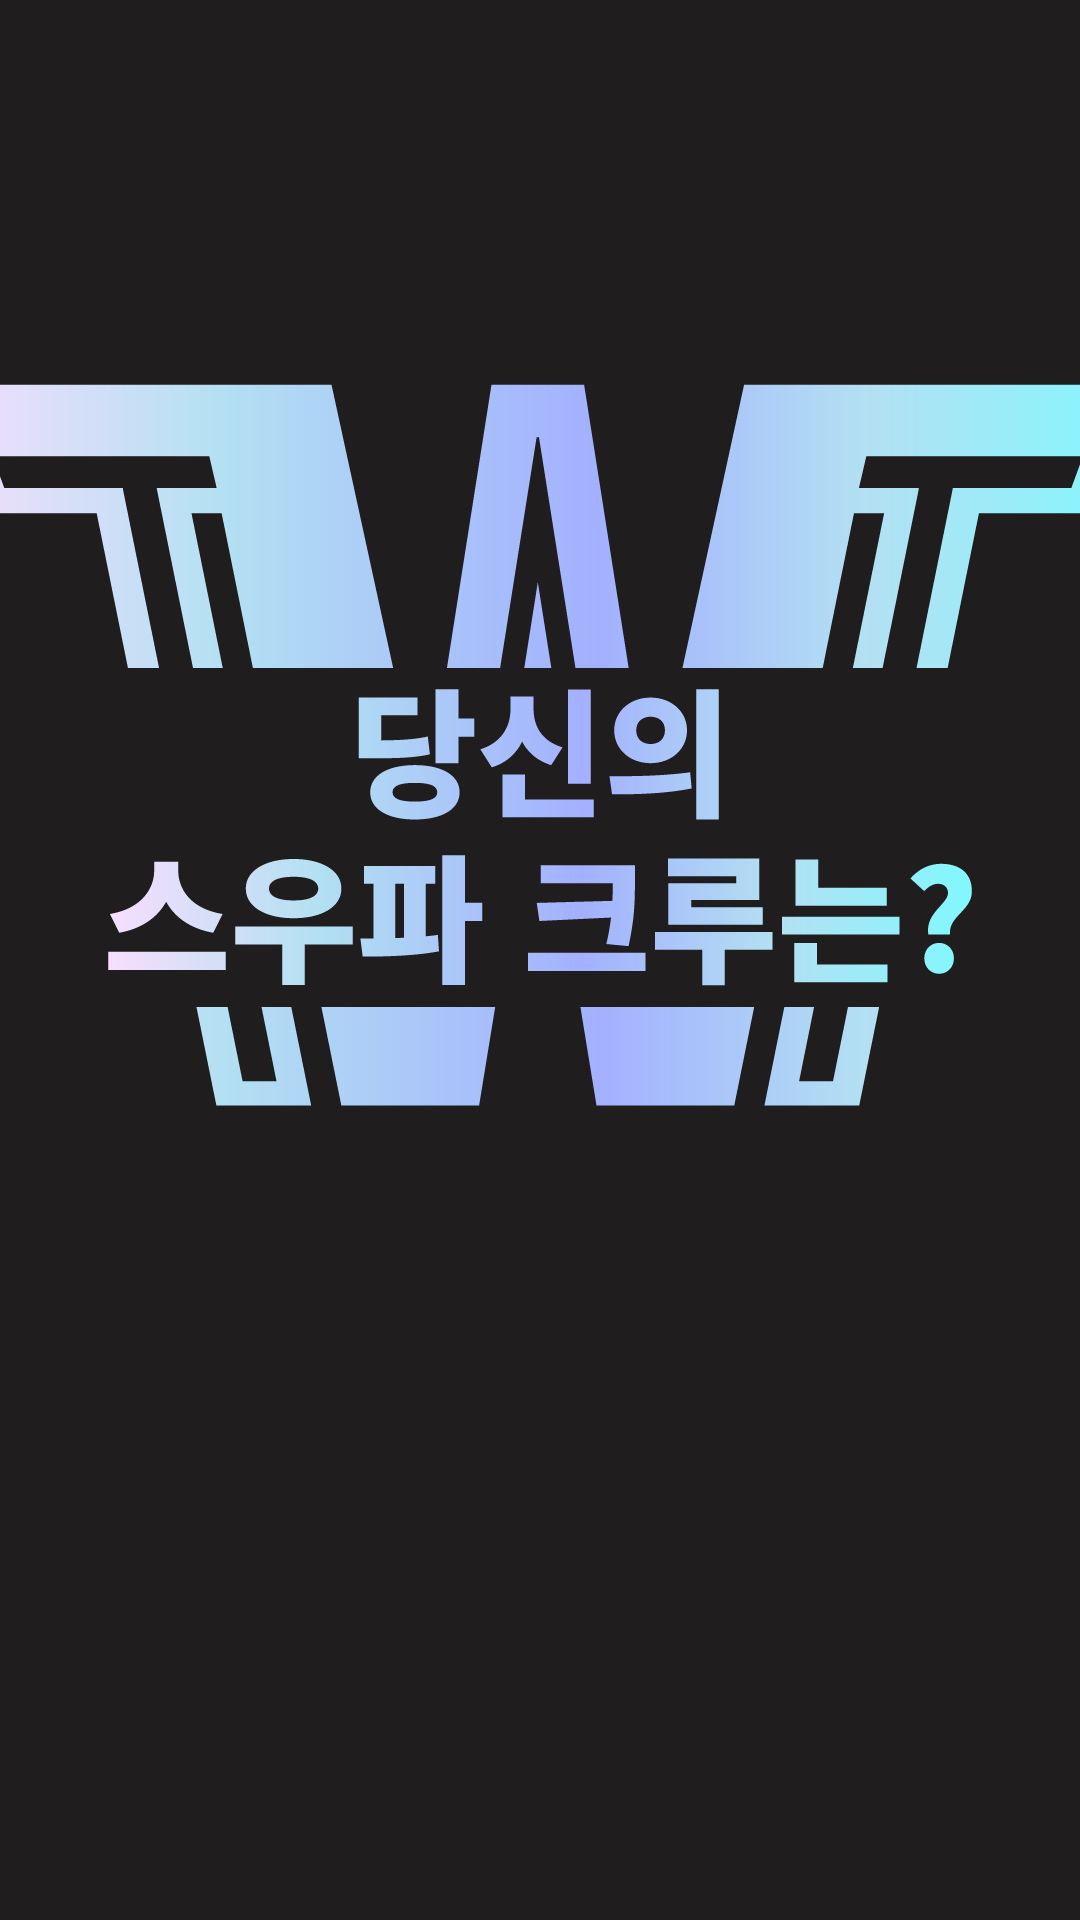
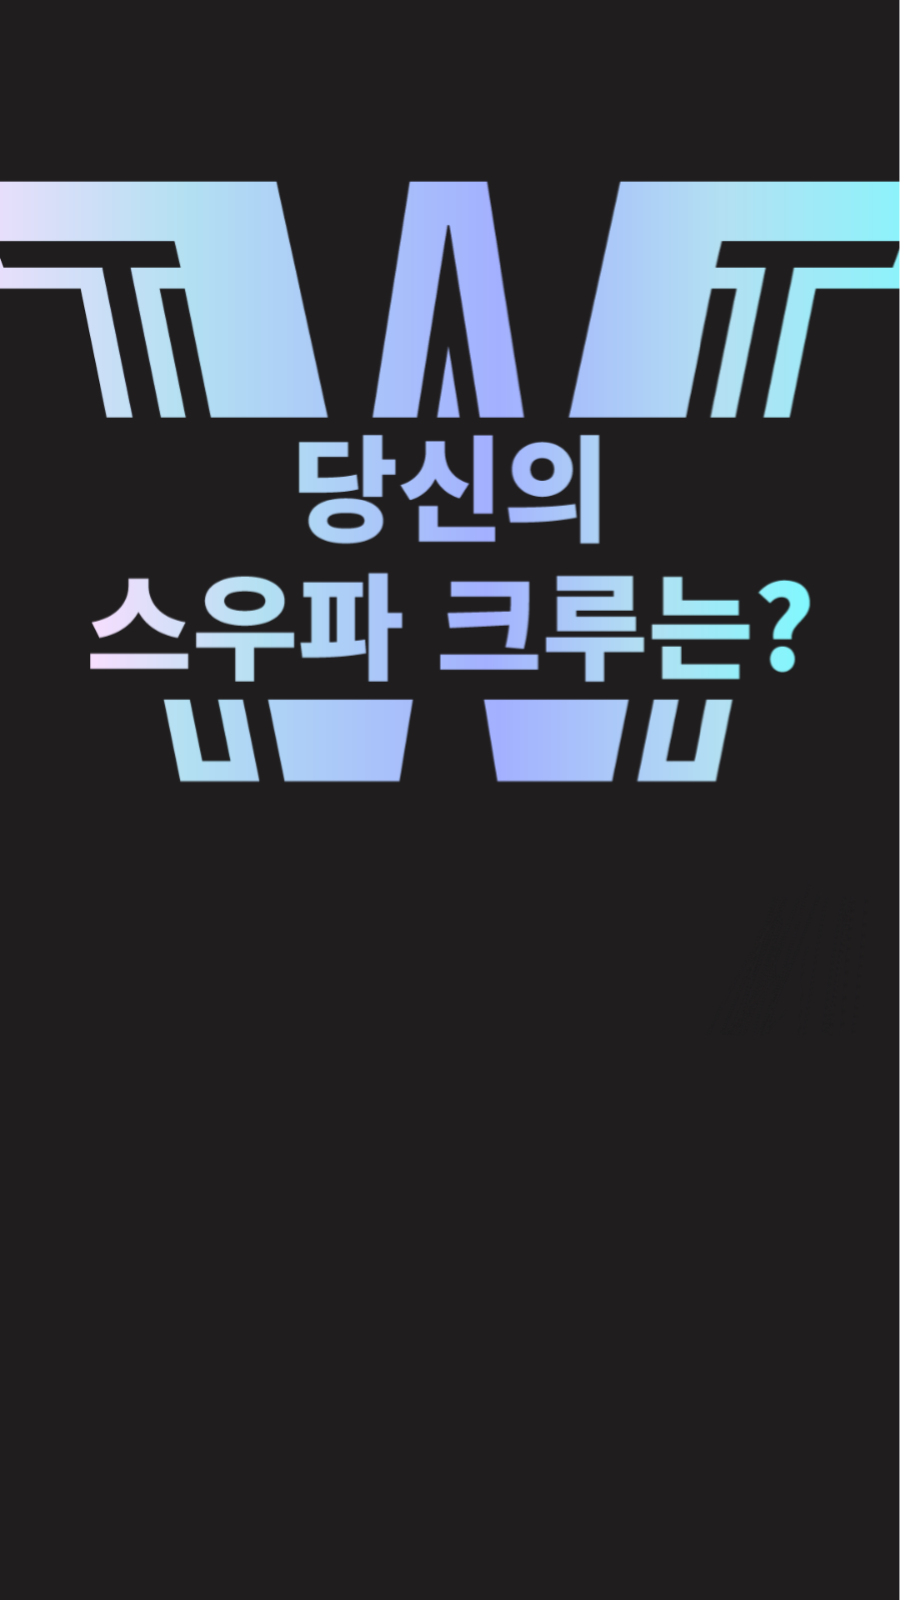
ux: home

Changed region(s): [[0.0, 0.0, 1.0, 1.0]]

diff --git a/src/Home.js b/src/Home.js
@@ -9,8 +9,20 @@ function Home({ setStep, setPoint }) {
   });
   return (
     <Homemain>
-      home
-      <Link to="/problem">나와 어울리는 댄스 크루 찾으러 가기</Link>
+      <Link to="/problem">
+        <Btn>
+          <BtnSpan>나와 어울리는</BtnSpan>
+          <BtnSpan>댄스 크루 찾으러 가기</BtnSpan>
+        </Btn>
+        <CountSpan>
+          <BoldNumber>2021</BoldNumber>명의 댄서들이 참여했습니다.
+        </CountSpan>
+      </Link>
+      <Footer>
+        <span>©Chan&Blanky</span>
+        <span>Develop by | dpdpdpfl@google.com</span>
+        <span>Design by |Dskdksk@google.com</span>
+      </Footer>
     </Homemain>
   );
 }
@@ -18,11 +30,66 @@ function Home({ setStep, setPoint }) {
 const Homemain = styled.div`
   background-image: url(main_background.png);
   width: 100%;
-  height: 177.77vw;
+  height: 177.9vw;
   background-size: contain;
-  @media (min-width: 480px) {
-    height: 853px;
+  @media (min-width: 400px) {
+    height: 711px;
   }
+  display: flex;
+  justify-content: center;
+`;
+
+const Btn = styled.div`
+  width: 240px;
+  height: 70px;
+  margin-top: 390px;
+  border: 1px solid #a3b0ff;
+  box-sizing: border-box;
+  border-radius: 35px;
+  display: flex;
+  flex-direction: column;
+  align-items: center;
+  justify-content: center;
+  @media (min-width: 480px) {
+  }
+`;
+
+const BtnSpan = styled.span`
+  font-weight: bold;
+  font-size: 20px;
+  line-height: 29px;
+  color: #a3b0ff;
+`;
+
+const CountSpan = styled.span`
+  margin-top: 20px;
+  font-style: normal;
+  font-size: 16px;
+  display: flex;
+  align-items: center;
+  text-align: center;
+
+  color: #a3b0ff;
+`;
+
+const BoldNumber = styled.span`
+  font-weight: bold;
+  margin-right: 4px;
+`;
+
+const Footer = styled.div`
+  position: absolute;
+  top: 95%;
+  left: 50%;
+  transform: translate(-50%, -50%);
+  font-weight: 300;
+  font-size: 8px;
+  line-height: 15px;
+  display: flex;
+  flex-direction: column;
+  align-items: center;
+  text-align: center;
+  color: #ffffff;
 `;
 
 export default Home;

diff --git a/src/GlobalStyles.js b/src/GlobalStyles.js
@@ -3,6 +3,7 @@ import reset from "styled-reset";
 
 const GlobalStyles = createGlobalStyle` 
     ${reset}
+    @import url('https://fonts.googleapis.com/css2?family=Noto+Sans+KR:wght@700&display=swap');
     a{
         text-decoration: none;
         color: inherit;
@@ -11,7 +12,7 @@ const GlobalStyles = createGlobalStyle`
         box-sizing: border-box;
     }
     body {
-        font-family: -apple-system, BlinkMacSystemFont, 'Segoe UI', Roboto, Oxygen, Ubuntu, Cantarell, 'Open Sans', 'Helvetica Neue', sans-serif;
+        font-family: 'Noto Sans KR', sans-serif;
         font-size: 14px;
         background-color: #1F1D1E;
         color: white;
@@ -21,9 +22,9 @@ const GlobalStyles = createGlobalStyle`
     #root {
         width:100%;
     }
-    @media(min-width: 480px){
+    @media(min-width: 400px){
         #root {
-            width:480px;
+            width:400px;
         }
     }
 `;
